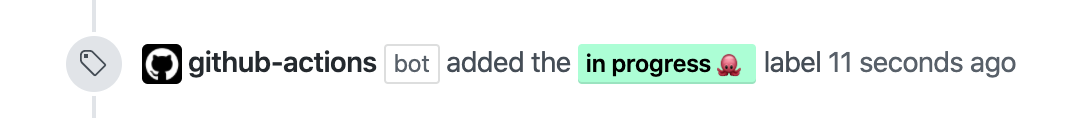
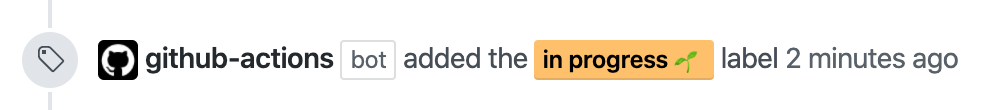
Customize labels and update Readme (#21)

Changed region(s): [[0.0, 0.3, 0.9697, 0.7909], [0.0303, 0.0, 0.0606, 0.2455], [0.0303, 0.8455, 0.0606, 1.0]]

diff --git a/dist/index.js b/dist/index.js
@@ -505,70 +505,61 @@ function isNumber(n) {
 
 async function run() {
   try {
-
     const githubToken = core.getInput('github-token')
+    const progressLabelWord = core.getInput('in-progress-label-word')
+    const progressLabelColor = core.getInput('in-progress-label-color')
+    const doneLabelWord = core.getInput('done-label-word')
+    const doneLabelColor = core.getInput('done-label-color')
     if (githubToken !== '') {
-
       const githubClient = new GitHub(githubToken)
-
       if (context.issue.number !== undefined) {
-
         const res = await githubClient.issues.get({
           owner: context.repo.owner,
           repo: context.repo.repo,
           issue_number: context.issue.number
         });
-
         const leftParaIndex = res.data.title.indexOf('(');
         const rightParaIndex = res.data.title.indexOf(')');
         const linkIssueStr = res.data.title.substring(leftParaIndex + 2, rightParaIndex);
         const linkIssueNumber = +linkIssueStr;
-
         const labelsInRepoResponse = await githubClient.issues.listLabelsForRepo({
           owner: context.repo.owner,
           repo: context.repo.repo
         });
-
         const isMerged = (context.payload.action === 'closed') && (context.payload.pull_request['merged'] === true);
-
         if (isMerged) {
-
           const issueLabelsResponse = await githubClient.issues.listLabelsOnIssue({
             owner: context.repo.owner,
             repo: context.repo.repo,
             issue_number: linkIssueNumber
           });
-          const issueLabel = issueLabelsResponse.data.find(l => l.name === "in progress :octopus:");
+          const issueLabel = issueLabelsResponse.data.find(l => l.name === progressLabelWord);
           if (issueLabel !== undefined) {
             await githubClient.issues.removeLabel({
               owner: context.repo.owner,
               repo: context.repo.repo,
               issue_number: linkIssueNumber,
-              name: "in progress :octopus:"
+              name: progressLabelWord
             });
           }
-
-          const finishLabel = labelsInRepoResponse.data.find(l => l.name === "done 🎉");
-          if (finishLabel === undefined) {
+          const doneLabel = labelsInRepoResponse.data.find(l => l.name === doneLabelWord);
+          if (doneLabel === undefined) {
             await githubClient.issues.createLabel({
               owner: context.repo.owner,
               repo: context.repo.repo,
-              name: "done 🎉",
+              name: doneLabelWord,
               description: "This issue is solved",
-              color: "ffbe42"
+              color: doneLabelColor
             });
           }
-
           await githubClient.issues.addLabels({
             owner: context.repo.owner,
             repo: context.repo.repo,
             issue_number: linkIssueNumber,
-            labels: ["done 🎉"]
+            labels: [doneLabelWord]
           })
-
           return;
         }
-
         if (!isNumber(linkIssueNumber)) {
           await githubClient.issues.createComment({
             issue_number: context.issue.number,
@@ -578,43 +569,36 @@ async function run() {
           })
           return;
         }
-
-        const progressLabel = labelsInRepoResponse.data.find(l => l.name === "in progress :octopus:");
-
+        const progressLabel = labelsInRepoResponse.data.find(l => l.name === progressLabelWord);
         if (progressLabel === undefined) {
           await githubClient.issues.createLabel({
             owner: context.repo.owner,
             repo: context.repo.repo,
-            name: "in progress :octopus:",
+            name: progressLabelWord,
             description: "This issue is currently being handling",
-            color: "a9ffd4"
+            color: progressLabelColor
           });
         }
-
         process.stdout.write(`The linked issue of this pull request is issue#${linkIssueNumber}\n`)
-
         const listOfCommentsResponse = await githubClient.issues.listComments({
           owner: context.repo.owner,
           repo: context.repo.repo,
           issue_number: linkIssueNumber
         });
-
-        const comment = listOfCommentsResponse.data.find(l => l.body === `💡 This issue is linked to the pull request #${context.issue.number}\n 🔧 The related pull request is opened by @${res.data.user.login}\n\n\n 🐙 This comment is auto-generated by FuzzyOcto\n`);
-
+        const comment = listOfCommentsResponse.data.find(l => l.body === `💡 This issue is linked to the pull request #${context.issue.number}\n 🔧 The related pull request is opened by @${res.data.user.login}\n\n\n 🐷 This comment is auto-generated by pig-action\n`);
         if (comment === undefined) {
           await githubClient.issues.createComment({
             owner: context.repo.owner,
             repo: context.repo.repo,
             issue_number: linkIssueNumber,
-            body: `💡 This issue is linked to the pull request #${context.issue.number}\n 🔧 The related pull request is opened by @${res.data.user.login}\n\n\n 🐙 This comment is auto-generated by FuzzyOcto\n`,
+            body: `💡 This issue is linked to the pull request #${context.issue.number}\n 🔧 The related pull request is opened by @${res.data.user.login}\n\n\n 🐷 This comment is auto-generated by pig-action\n`,
           });
         }
-
         await githubClient.issues.addLabels({
           owner: context.repo.owner,
           repo: context.repo.repo,
           issue_number: linkIssueNumber,
-          labels: ["in progress :octopus:"]
+          labels: [progressLabelWord]
         })
       }
     }

diff --git a/index.js b/index.js
@@ -7,70 +7,61 @@ function isNumber(n) {
 
 async function run() {
   try {
-
     const githubToken = core.getInput('github-token')
+    const progressLabelWord = core.getInput('in-progress-label-word')
+    const progressLabelColor = core.getInput('in-progress-label-color')
+    const doneLabelWord = core.getInput('done-label-word')
+    const doneLabelColor = core.getInput('done-label-color')
     if (githubToken !== '') {
-
       const githubClient = new GitHub(githubToken)
-
       if (context.issue.number !== undefined) {
-
         const res = await githubClient.issues.get({
           owner: context.repo.owner,
           repo: context.repo.repo,
           issue_number: context.issue.number
         });
-
         const leftParaIndex = res.data.title.indexOf('(');
         const rightParaIndex = res.data.title.indexOf(')');
         const linkIssueStr = res.data.title.substring(leftParaIndex + 2, rightParaIndex);
         const linkIssueNumber = +linkIssueStr;
-
         const labelsInRepoResponse = await githubClient.issues.listLabelsForRepo({
           owner: context.repo.owner,
           repo: context.repo.repo
         });
-
         const isMerged = (context.payload.action === 'closed') && (context.payload.pull_request['merged'] === true);
-
         if (isMerged) {
-
           const issueLabelsResponse = await githubClient.issues.listLabelsOnIssue({
             owner: context.repo.owner,
             repo: context.repo.repo,
             issue_number: linkIssueNumber
           });
-          const issueLabel = issueLabelsResponse.data.find(l => l.name === "in progress :octopus:");
+          const issueLabel = issueLabelsResponse.data.find(l => l.name === progressLabelWord);
           if (issueLabel !== undefined) {
             await githubClient.issues.removeLabel({
               owner: context.repo.owner,
               repo: context.repo.repo,
               issue_number: linkIssueNumber,
-              name: "in progress :octopus:"
+              name: progressLabelWord
             });
           }
-
-          const finishLabel = labelsInRepoResponse.data.find(l => l.name === "done 🎉");
-          if (finishLabel === undefined) {
+          const doneLabel = labelsInRepoResponse.data.find(l => l.name === doneLabelWord);
+          if (doneLabel === undefined) {
             await githubClient.issues.createLabel({
               owner: context.repo.owner,
               repo: context.repo.repo,
-              name: "done 🎉",
+              name: doneLabelWord,
               description: "This issue is solved",
-              color: "ffbe42"
+              color: doneLabelColor
             });
           }
-
           await githubClient.issues.addLabels({
             owner: context.repo.owner,
             repo: context.repo.repo,
             issue_number: linkIssueNumber,
-            labels: ["done 🎉"]
+            labels: [doneLabelWord]
           })
-
           return;
         }
-
         if (!isNumber(linkIssueNumber)) {
           await githubClient.issues.createComment({
             issue_number: context.issue.number,
@@ -80,43 +71,36 @@ async function run() {
           })
           return;
         }
-
-        const progressLabel = labelsInRepoResponse.data.find(l => l.name === "in progress :octopus:");
-
+        const progressLabel = labelsInRepoResponse.data.find(l => l.name === progressLabelWord);
         if (progressLabel === undefined) {
           await githubClient.issues.createLabel({
             owner: context.repo.owner,
             repo: context.repo.repo,
-            name: "in progress :octopus:",
+            name: progressLabelWord,
             description: "This issue is currently being handling",
-            color: "a9ffd4"
+            color: progressLabelColor
           });
         }
-
         process.stdout.write(`The linked issue of this pull request is issue#${linkIssueNumber}\n`)
-
         const listOfCommentsResponse = await githubClient.issues.listComments({
           owner: context.repo.owner,
           repo: context.repo.repo,
           issue_number: linkIssueNumber
         });
-
-        const comment = listOfCommentsResponse.data.find(l => l.body === `💡 This issue is linked to the pull request #${context.issue.number}\n 🔧 The related pull request is opened by @${res.data.user.login}\n\n\n 🐙 This comment is auto-generated by FuzzyOcto\n`);
-
+        const comment = listOfCommentsResponse.data.find(l => l.body === `💡 This issue is linked to the pull request #${context.issue.number}\n 🔧 The related pull request is opened by @${res.data.user.login}\n\n\n 🐷 This comment is auto-generated by pig-action\n`);
         if (comment === undefined) {
           await githubClient.issues.createComment({
             owner: context.repo.owner,
             repo: context.repo.repo,
             issue_number: linkIssueNumber,
-            body: `💡 This issue is linked to the pull request #${context.issue.number}\n 🔧 The related pull request is opened by @${res.data.user.login}\n\n\n 🐙 This comment is auto-generated by FuzzyOcto\n`,
+            body: `💡 This issue is linked to the pull request #${context.issue.number}\n 🔧 The related pull request is opened by @${res.data.user.login}\n\n\n 🐷 This comment is auto-generated by pig-action\n`,
           });
         }
-
         await githubClient.issues.addLabels({
           owner: context.repo.owner,
           repo: context.repo.repo,
           issue_number: linkIssueNumber,
-          labels: ["in progress :octopus:"]
+          labels: [progressLabelWord]
         })
       }
     }

diff --git a/README.md b/README.md
@@ -1,28 +1,68 @@
 <h1 align="center">
-  FuzzyOcto
+  Pig
 </h1>
 
 <p align="center">
-  <a href="">
-    <img alt="" src="https://images.emojiterra.com/google/android-nougat/512px/1f419.png" width="200" />
+  <a href="https://github.com/marketplace/actions/pig-action">
+    <img alt="" src="https://i.pinimg.com/originals/bb/ab/d0/bbabd02172fe466072c0e593d67741f5.png" width="250" />
   </a>
 </p>
 
 <p align="center">
-  <a href=""><img alt="FuzzyOcto status" src="https://github.com/muachilin/FuzzyOcto/workflows/FuzzyOcto-Test/badge.svg"></a>
+  <a href=""><img alt="Pig status" src="https://github.com/muachilin/Pig/workflows/Pig-Test/badge.svg"></a>
 </p>
 
 
-A tiny Github Action built with JavaScript for managing labels and comments in issues :dart:
+A tiny Github Action built with JavaScript for managing between pull request and issues :dart:
 
-Let FuzzyOcto help you build the bridge between issues and pull requests 🔥
+Let Pig make Pull requests and Issues Glue together 🥂
 
 Stay home and play with Github :octocat:
+
+## 🧭 Usage
+
+### Inputs
+
+There are five inputs for Pig.
+
+| Input | Required | Default | Description |
+| ----- | --------- | ------- | ----------- |
+| github-token | Yes | x | Simply use  ${{ secrets.GITHUB_TOKEN }}. You don't need to set the token yourself.|
+| in-progress-label-word | No | "in progress 🌱" | The text of the label indicating that the issue is in progress.|
+| in-progress-label-color | No | ![#ffc163](https://placehold.it/15/ffc163/000000?text=+) `#ffc163` | The color of the label indicating that the issue is in progress. |
+| done-label-word | No | "done 🎉" | The text of the label indicating that the issue is solved. |
+| done-label-color | No | ![#c0ff33](https://placehold.it/15/c0ff33/000000?text=+) `#c0ff33` | The color of the label indicating that the issue is solved. |
+
+### Triggering Workflow
+
+Since by default, a workflow only runs when a `pull_request`'s activity type is `opened`, `synchronize`, or `reopened`, be sure to include `closed` in the types of `pull_request` to trigger the action when merging the pull requests. See [pull_request](https://help.github.com/en/actions/reference/events-that-trigger-workflows#pull-request-event-pull_request) in Github Actions Reference for other activity types of pull request event.
+
+
+### Example of Usage
+To configure your automated software development process in Github, you have to include workflows in the `.github/workflows` directory in the root of your repository. The following is the example of using pig-action in `.github/workflows/my-workflow.yml`. If you want to customize the color of done label, you need to use hexadecimal color code in lower case without the leading `#` mark.
+
+```yaml
+name: 'My workflow'
+on:
+  pull_request:
+    types: [assigned, opened, synchronize, reopened, edited, closed]
+jobs:
+  build:
+    runs-on: ubuntu-latest
+    steps:
+      - uses: actions/checkout@v1
+      - name: pig-action
+        uses: muachilin/Pig@0.0.8
+        with:
+          github-token: ${{ secrets.GITHUB_TOKEN }}
+          in-progress-label-word: "handling"
+          done-label-color: "ffff00"
+```
 
 
 ## 🏷 Labeling
 
-When you commit to a branch and open a corresonding pull request, FuzzyOcto will automatically add a label of `in progress` to the linked issue of this pull request.
+When you commit to a branch and open a corresonding pull request, Pig will automatically add a label of `in progress` to the linked issue of this pull request.
 <br></br>
 <p align="center">
  <img alt="" src="examples/add_label.png" width="500" />
@@ -31,13 +71,14 @@ When you commit to a branch and open a corresonding pull request, FuzzyOcto will
 
 👉 Remember to include the number of linked issue in the title of the pull request in the parentheses
 
-```bash
+```yaml
 My pull request title (#123)
 ```
 
-## ✂  Delabeling
 
-After you merge the pull request, FuzzyOcto will automatically remove the original `in progress` label and add the `done` label to the linked issue. Therefore, user can easily see which issues are already solved. 
+## ✂ Delabeling
+
+After you merge the pull request, Pig will automatically remove the original `in progress` label and add the `done` label to the linked issue. Therefore, user can easily see which issues are already solved. 
 
 <br></br>
 <p align="center">
@@ -48,7 +89,7 @@ After you merge the pull request, FuzzyOcto will automatically remove the origin
 
 ## 📝 Mentioning
 
-When you commit to a branch and open a corresonding pull request, FuzzyOcto will automatically comment on the linked issue of this pull request. Besides, FuzzyOcto will tag the person who open the pull request on the linked issue. Therefore, user can see who and which PR is handling this issue very easily.
+When you commit to a branch and open a corresonding pull request, Pig will automatically comment on the linked issue of this pull request. Besides, Pig will tag the person who open the pull request on the linked issue. Therefore, user can see who and which PR is handling this issue very easily.
 
 <p align="center">
  <img alt="" src="examples/issue_comment.png" width="700" />
